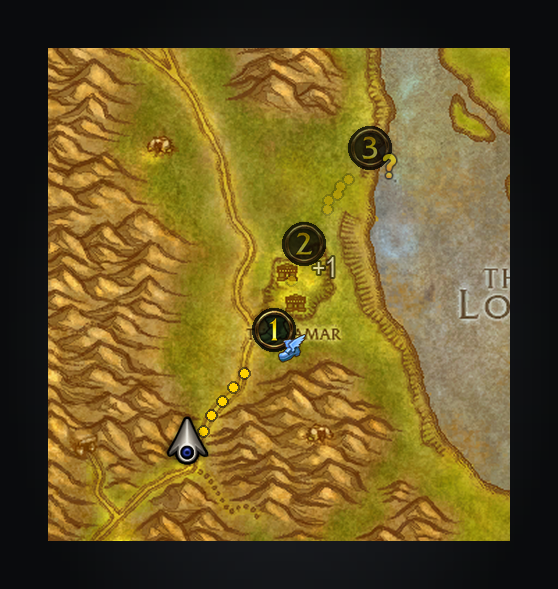
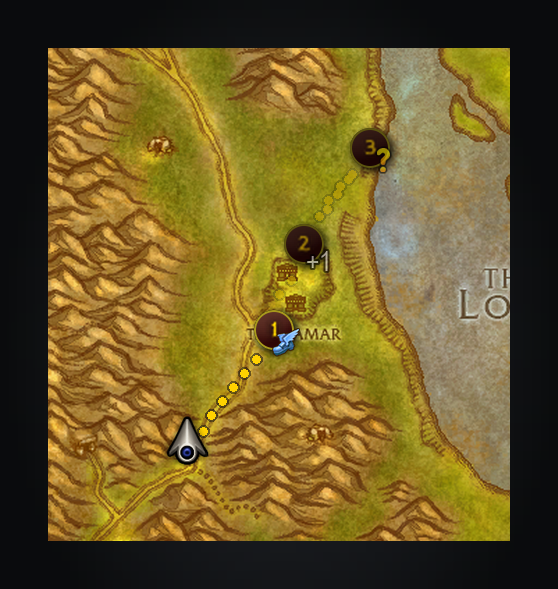
fix(route): stops wear the map's own quest button (#52)
```mermaid
flowchart LR
  A[Route stop] --> B[UI-QuestPoi-QuestNumber<br/>disc + gold ring, 32 on a 20 pin]
  B --> C[UI-QuestPoi-NumberIcons<br/>yellow numeral 1-25]
  B --> D[UI-QuestPoi-InnerGlow<br/>on hover]
  B --> E[kind badge / +N<br/>lower right]
```

Numbered route stops on the world map now use the client's own quest POI
button instead of the Adventure Guide ring over a masked disc.

**Stock source (Forever 1.60.1, Gethe `forever` branch)**
- `Blizzard_POIButton/POIButton.xml` `POIButtonTemplate`: 20x20 button;
normal `UI-QuestPoi-QuestNumber`, pushed
`UI-QuestPoi-QuestNumber-Pressed`, highlight `UI-QuestPoi-InnerGlow`
(all set at atlas size, 32x32, CENTER; highlight is OVERLAY, ADD).
`QuestPinTemplate` on the world map inherits it.
- Modern POI buttons have no numbers. The numbered quest button
(`QuestPOINumericTemplate`, `QuestPOI_CalculateNumericTexCoords`) takes
its yellow numerals 1-25 from
`Interface\WorldMap\UI-QuestPoi-NumberIcons`: an 8x8 grid of 1/8 cells,
yellow half from top 0.5, drawn 32x32 at CENTER. Forever's POIButton.lua
still carries `POIButtonColorYellowCoord = 0.5`.
- Checked against Forever build 1.60.1.69913 on wago.tools:
`UiTextureAtlasMember` rows `ui-questpoi-questnumber` (23605),
`-pressed` (23603), `ui-questpoi-innerglow` (23600) in atlas 2549 (file
5320914, 256x128), and file 334391 `ui-questpoi-numbericons.blp`. Both
files download for that build.

**Construction**
[…]

Changed region(s): [[0.4875, 0.3362, 0.6093, 0.489], [0.4265, 0.489, 0.5484, 0.6418], [0.6093, 0.2139, 0.7312, 0.3056]]

diff --git a/tools/screenshots.py b/tools/screenshots.py
@@ -41,6 +41,7 @@ from wowmock import (
     Ui,
     backdrop,
     colored,
+    crop_coords,
     draw_overlay,
     map_art,
     map_overlays,
@@ -511,20 +512,25 @@ THELSAMAR = {"map": 0, "x": -5640.0, "y": -2760.0}
 # A caller's route through Thelsamar (API.lua NavigateRoute with kinds): the flight master, a quest giver, a hand-in,
 # and back to the quest giver, whose ring then holds stops 2 and 4.
 STOP_BADGES = ("taxinode_alliance", "QuestNormal", "QuestTurnin", "QuestTurnin")
+STOP_SIZE = 20
+NUMBER_ICONS = "interface/worldmap/ui-questpoi-numbericons.blp"
 
 
 def stop_pin(canvas, x, y, number, badge, later, others=0):
-    """StopPin.lua's numbered stop: the Adventure Guide ring over an opaque dark disc, Blizzard's numeral in it, and the
-    stop's kind as a 16-unit badge hanging 4 units off the ring's lower right. A ring shared by several stops shows the
+    """StopPin.lua's numbered stop: the map's quest button (UI-QuestPoi-QuestNumber, 32 units on a 20-unit pin) over
+    its own black silhouette, and the numbered quest button's yellow numeral from UI-QuestPoi-NumberIcons over it. The
+    stop's kind hangs as a 16-unit badge 4 units off the pin's lower right. A button shared by several stops shows the
     first's number and, in the badge's place, how many more (NumberFontNormal, BOTTOMRIGHT at 4, -4). Later stops fade
-    all but the disc."""
+    all but the silhouette."""
     alpha = 0.55 if later else 1
-    k = canvas.ui.scale
-    disc = Image.new("RGBA", (round(22 * k), round(22 * k)))
-    ImageDraw.Draw(disc).ellipse((0, 0, disc.width - 1, disc.height - 1), fill=(0, 0, 0, round(255 * 0.75)))
-    canvas.composite(disc, canvas.px(x - 11), canvas.px(y - 11))
-    canvas.draw(canvas.ui.atlas("adventureguide-ring"), x - 13, y - 13, 26, 26, (1, 1, 1, alpha))
-    canvas.draw(canvas.ui.atlas(f"services-number-{number}"), x - 11, y - 12.5, 22, 25, (1, 1, 1, alpha))
+    button = canvas.ui.atlas("UI-QuestPoi-QuestNumber")
+    canvas.draw(button, x - 16, y - 16, 32, 32, (0, 0, 0, 1))
+    canvas.draw(button, x - 16, y - 16, 32, 32, (1, 1, 1, alpha))
+    cell = number - 1
+    left, top = cell % 8 * 0.125, 0.5 + cell // 8 * 0.125
+    numeral = crop_coords(canvas.ui.texture(NUMBER_ICONS), left, left + 0.125, top, top + 0.125)
+    canvas.draw(numeral, x - 16, y - 16, 32, 32, (1, 1, 1, alpha))
+    edge = STOP_SIZE / 2 + 4
     if others:
         font = FONTS["NumberFontNormal"]
         text = f"+{others}"
@@ -533,12 +539,12 @@ def stop_pin(canvas, x, y, number, badge, later, others=0):
         piece.text(1, 1, text, font)
         faded = piece.image
         faded.putalpha(faded.getchannel("A").point(lambda a: round(a * alpha)))
-        canvas.composite(faded, canvas.px(x + 13 + 4 - w - 1), canvas.px(y + 13 + 4 - font.height - 1))
+        canvas.composite(faded, canvas.px(x + edge - w - 1), canvas.px(y + edge - font.height - 1))
         return
     art = canvas.ui.atlas(badge)
     factor = 16 / max(art.width, art.height)
     w, h = art.width * factor, art.height * factor
-    canvas.draw(art, x + 13 + 4 - w, y + 13 + 4 - h, w, h, (1, 1, 1, alpha))
+    canvas.draw(art, x + edge - w, y + edge - h, w, h, (1, 1, 1, alpha))
 
 
 def render_stops(ui):
@@ -564,7 +570,7 @@ def render_stops(ui):
         points = [point(p) for p in ordered(walk)]
         for a, b in zip(points, points[1:], strict=False):
             segment(route, a, b, NORMAL, True, 1 if index == 0 else 0.4)
-    flush_strokes(route, marks=[(px, py, 13) for px, py in rings])
+    flush_strokes(route, marks=[(px, py, STOP_SIZE / 2) for px, py in rings])
     canvas.paste(route, mx, my)
     map_landmarks(canvas, map_id, rects["map"])
     for (px, py), numbers in reversed(rings.items()):

diff --git a/README.md b/README.md
@@ -98,11 +98,11 @@ invalid input, combat or disabled Journeys return `false` without replacing guid
 A stop's optional `kind` says what stands there: `"pickup"`, `"turnin"`, `"objective"`, `"trainer"`,
 `"innkeeper"`, `"flightmaster"`, `"battlemaster"`, `"dungeon"`, `"boat"`, `"zeppelin"`, `"lift"`, `"tram"` or
 `"portal"`. Its numbered map pin then wears the game's own mark for it (a quest's “!” or “?”, a flight master, a
-boat) as a small badge on the ring's lower right; a lone stop shows the mark alone. The minimap circles the spot
+boat) as a small badge on its lower right; a lone stop shows the mark alone. The minimap circles the spot
 rather than covering the game's icon there. Any other kind is ignored, as is a kind whose art the client lacks: the
 stop keeps the plain pin.
 
-![Three stops through Thelsamar: the flight master, a quest giver and a hand-in, each badged on its numbered ring](docs/screenshots/stops.png)
+![Three stops through Thelsamar: the flight master, a quest giver and a hand-in, each badged on its numbered quest button](docs/screenshots/stops.png)
 `CurrentStop(owner)` returns the current 1-based stop or `nil`; `Cancel(owner)` returns `true` only when it
 clears that owner's whole route. Use your addon's name as `owner`; starting another journey replaces ownership.
 `Active()` says whether any journey is guiding, yours or another addon's. `Ended(owner)` says why that owner's

diff --git a/docs/screenshots.md b/docs/screenshots.md
@@ -24,7 +24,7 @@ pixels never enter product media.
 | `kalimdor.png` | Auberdine → Menethil → Theramore → Cenarion Hold, Silithus |
 | `darkshore.png` | A measured walk south from Auberdine to the Grove of the Ancients |
 | `docks.png` | Auberdine's clustered piers; arrivals/departures and destination glows |
-| `stops.png` | A three-stop API route through Thelsamar: flight master, quest giver, hand-in badges on numbered rings |
+| `stops.png` | A three-stop API route through Thelsamar: flight master, quest giver, hand-in badges on the map's numbered quest buttons |
 | `tracker.png` | Capture 21's five Auberdine → Silithus steps, with the current totals header |
 | `minimap.png` | Auberdine's piers as minimap pins, the last dotted stretch to the south pier, native Guide waypoint |
 | `compass.png` | Current optional compass, enabled for this scene |

diff --git a/CHANGELOG.md b/CHANGELOG.md
@@ -11,6 +11,9 @@ verbatim rather than rewritten as the addon moves.
 
 ## [Unreleased]
 
+- **Route stops look like the map's own quest buttons.** Each numbered stop on the world map is now the brown disc
+  with the gold ring the game uses for quests, with the game's own yellow number in it and the same glow on hover,
+  rather than a thinner ring of its own.
 - **A route stop that says what stands there keeps its number.** When another addon marks a stop as a flight master,
   a quest giver, a boat and so on, the map shows the numbered step circle with that icon as a small badge on its
   lower right, rather than the icon with a loose number beside it. A single destination still shows the icon alone.
